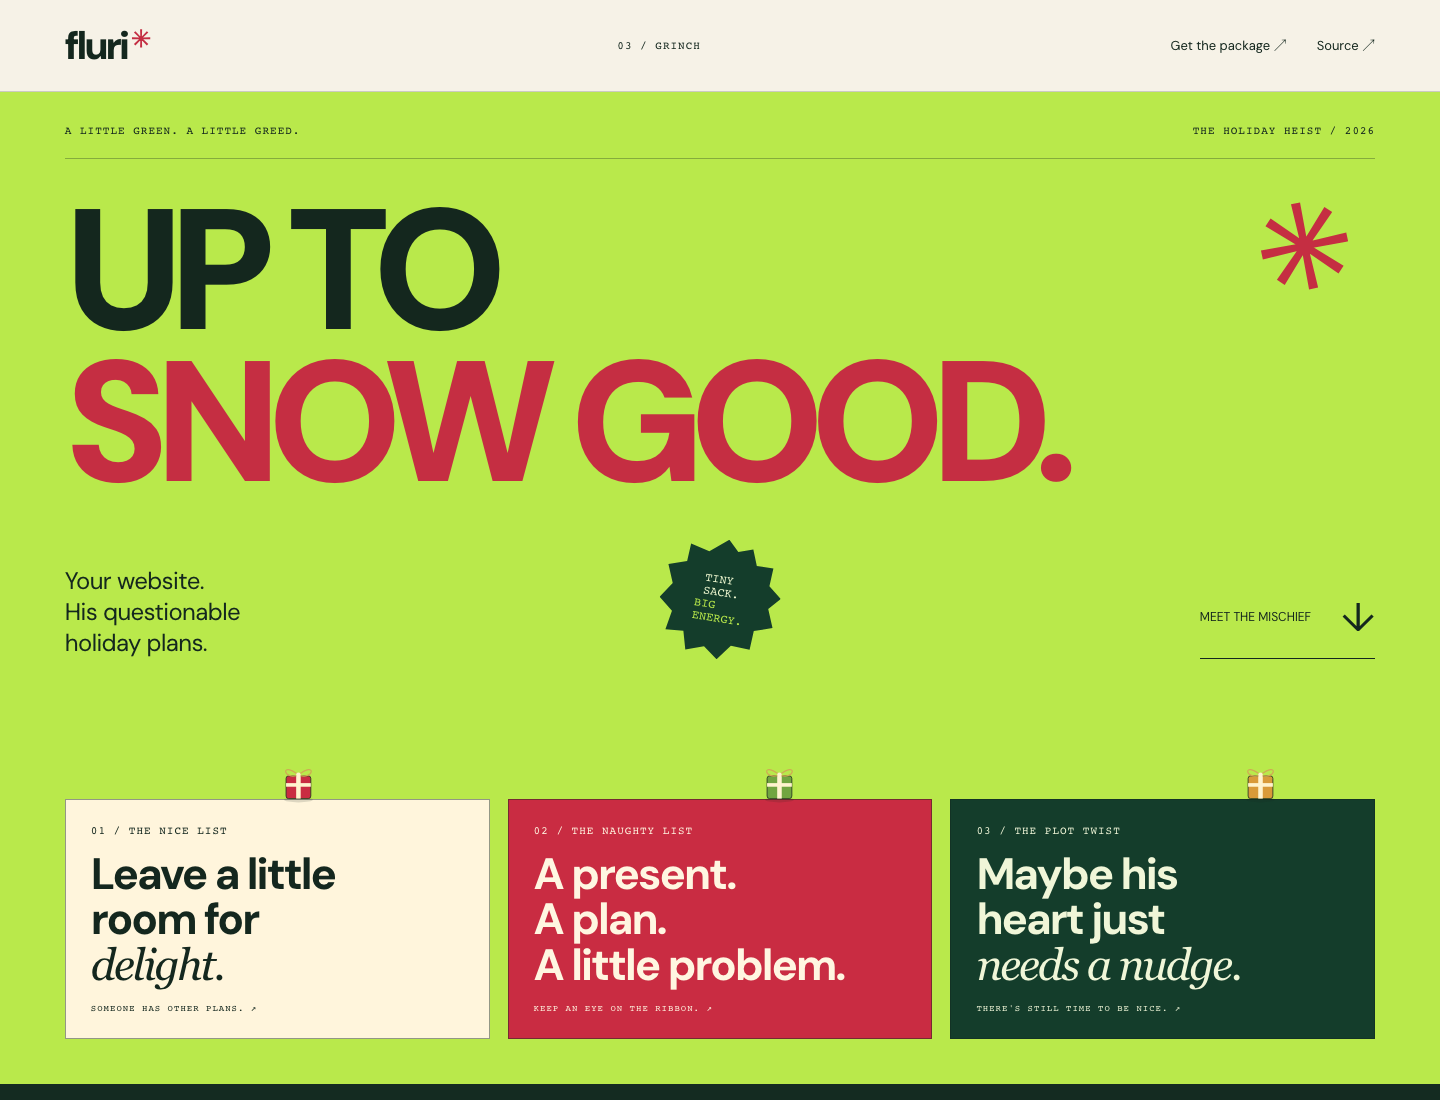
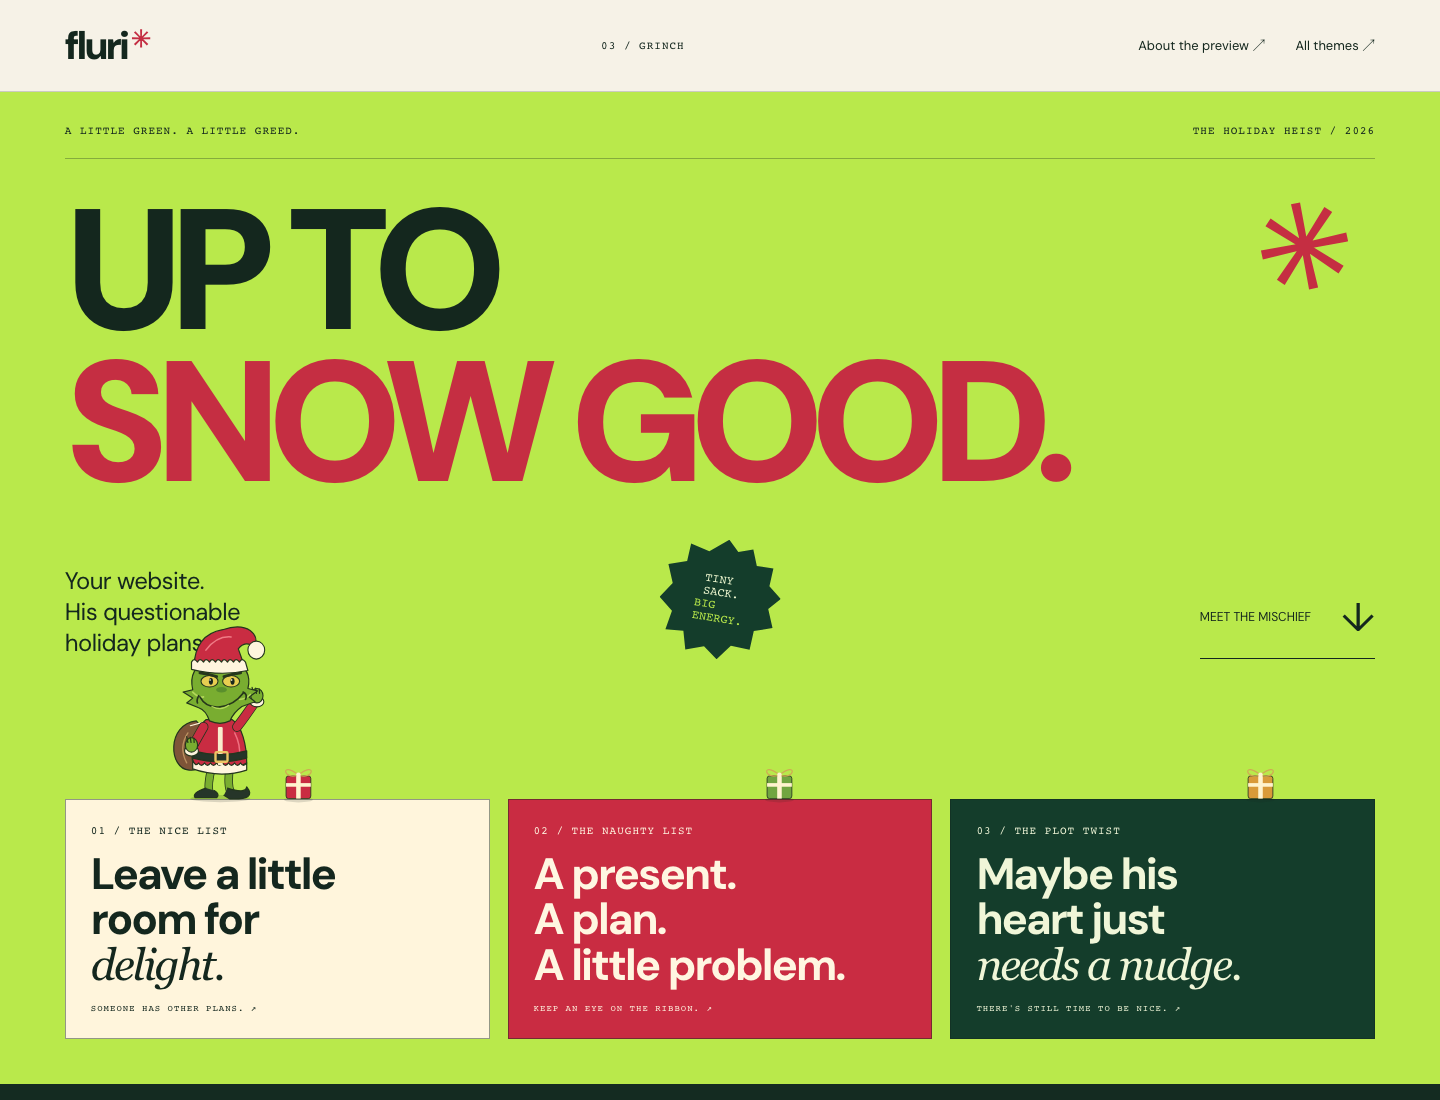
Keep Grinch unreleased and polish the public playground preview

Changed region(s): [[0.125, 0.5564, 0.1875, 0.7418], [0.8125, 0.0309, 0.875, 0.0618], [0.9062, 0.0309, 0.9375, 0.0618]]

diff --git a/demo/index.html b/demo/index.html
@@ -6,7 +6,7 @@
     <title>Grinch by Fluri — A little holiday mischief for your website</title>
     <meta
       name="description"
-      content="A mischievous green holiday visitor for your website. Watch him sneak, climb, steal illustrated presents, hide behind cards, and find a little kindness. Free TypeScript npm package."
+      content="A mischievous green holiday visitor for your website. Watch him sneak, climb, steal illustrated presents, hide behind cards, and find a little kindness. Try the interactive preview from Fluri Themes."
     />
     <meta name="theme-color" content="#b9e94b" />
     <meta name="author" content="František Gejdoš" />
@@ -30,23 +30,30 @@
         "@context": "https://schema.org",
         "@graph": [
           {
-            "@type": "SoftwareSourceCode",
+            "@type": "SoftwareApplication",
             "@id": "https://grinch.fluri.xyz/#software",
             "name": "Grinch by Fluri",
             "description": "An animated holiday character that steals illustrated presents, climbs page surfaces, hides and reacts to visitors.",
             "programmingLanguage": "TypeScript",
-            "codeRepository": "https://github.com/fluritheme/grinch",
-            "downloadUrl": "https://www.npmjs.com/package/@fluritheme/grinch",
             "license": "https://opensource.org/license/mit",
-            "author": { "@id": "https://fluri.xyz/#founder" },
-            "publisher": { "@id": "https://fluri.xyz/#organization" }
+            "author": {
+              "@id": "https://fluri.xyz/#founder"
+            },
+            "publisher": {
+              "@id": "https://fluri.xyz/#organization"
+            },
+            "applicationCategory": "DesignApplication",
+            "operatingSystem": "Web",
+            "url": "https://grinch.fluri.xyz/"
           },
           {
             "@type": "Organization",
             "@id": "https://fluri.xyz/#organization",
             "name": "Fluri Themes",
             "url": "https://fluri.xyz/",
-            "founder": { "@id": "https://fluri.xyz/#founder" }
+            "founder": {
+              "@id": "https://fluri.xyz/#founder"
+            }
           },
           {
             "@type": "Person",
@@ -72,8 +79,7 @@
         >fluri<span>✳</span></a
       ><span class="edition">03 / GRINCH</span>
       <nav aria-label="Main navigation">
-        <a href="#install">Get the package ↗</a
-        ><a href="https://github.com/fluritheme/grinch">Source ↗</a>
+        <a href="#install">About the preview ↗</a><a href="https://fluri.xyz/">All themes ↗</a>
       </nav>
     </header>
     <main>
@@ -184,17 +190,17 @@
       <section class="install" id="install" data-grinch-ui data-grinch-ignore>
         <div>
           <span class="eyebrow">A FEW LINES. A LITTLE TROUBLE.</span>
-          <h2>Invite him in.</h2>
+          <h2>A little preview.</h2>
           <button
             class="command"
             id="copy-install"
             type="button"
-            aria-label="Copy npm installation command"
+            aria-label="Show package preview status"
           >
-            <code>npm i @fluritheme/grinch</code><span aria-hidden="true">⧉</span>
+            <code>Package release coming soon</code><span aria-hidden="true">⧉</span>
           </button>
-          <p>TypeScript · Zero runtime dependencies · MIT · No CSS import</p>
-          <a href="https://github.com/fluritheme/grinch#readme">Read the full guide ↗</a>
+          <p>Sneak · Climb · Steal · Hide · Find a little kindness</p>
+          <a href="#controls">Try every little feature ↗</a>
         </div>
         <div class="code-panel">
           <div class="tabs" role="tablist" aria-label="Framework examples">
@@ -295,7 +301,7 @@ visitor.destroy();</code></pre>
       <nav aria-label="More Fluri themes">
         <a href="https://winter.fluri.xyz/">Winter ↗</a
         ><a href="https://spider.fluri.xyz/">Spider ↗</a
-        ><a href="https://github.com/fluritheme/grinch">GitHub ↗</a>
+        ><a href="https://fluri.xyz/">All themes ↗</a>
       </nav>
     </footer>
     <div id="toast" role="status" hidden></div>

diff --git a/workers/site.ts b/workers/site.ts
@@ -10,7 +10,7 @@ export default {
     headers.set('Permissions-Policy', 'camera=(), microphone=(), geolocation=()');
     headers.set(
       'Content-Security-Policy',
-      "default-src 'self'; script-src 'self' 'sha256-Hkd4HnbWDXsRGFNwBMSgVlLwWSydI05VbilNO/b7akc='; style-src 'self'; img-src 'self' data:; font-src 'self'; connect-src 'self'; object-src 'none'; base-uri 'self'; frame-ancestors 'none'",
+      "default-src 'self'; script-src 'self' 'sha256-BlFVx6V8wY3GnBWvf5+Pmq5XTueyc5VScBN8DAYjP5Q='; style-src 'self'; img-src 'self' data:; font-src 'self'; connect-src 'self'; object-src 'none'; base-uri 'self'; frame-ancestors 'none'",
     );
     return new Response(response.body, {
       status: response.status,

diff --git a/tests/browser.spec.ts b/tests/browser.spec.ts
@@ -92,7 +92,7 @@ test('invalid selectors leave no installed overlay and host clicks work', async 
   await page.locator('#click').click();
   expect(await page.evaluate(() => window.clicks)).toBe(1);
   await page.getByRole('button', { name: 'Pause Grinch', exact: true }).click();
-  expect(await page.evaluate(() => window.grinch.getState().state)).toBe('paused');
+  await expect.poll(() => page.evaluate(() => window.grinch.getState().state)).toBe('paused');
 });
 test('respects reduced motion and contains layout on phones', async ({ page }) => {
   await page.emulateMedia({ reducedMotion: 'reduce' });

diff --git a/demo/style.css b/demo/style.css
@@ -652,11 +652,16 @@ button:disabled {
     font-size: 28px;
   }
   .gift-row {
-    gap: 8px;
+    gap: 10px;
+    grid-template-columns: repeat(2, minmax(0, 1fr));
+  }
+  .gift-card:first-child {
+    grid-column: 1 / -1;
+    height: 210px;
   }
   .gift-card {
     padding: 17px 12px;
-    height: 210px;
+    height: 250px;
   }
   .gift-card h2 {
     font-size: 22px;

diff --git a/demo/main.ts b/demo/main.ts
@@ -150,7 +150,7 @@ async function copy(text: string): Promise<void> {
   }
 }
 get('copy-install').addEventListener('click', () => {
-  void copy('npm i @fluritheme/grinch');
+  toast('The package is coming soon. You can try every feature here today.');
 });
 get('copy-code').addEventListener('click', () => {
   void copy(examples[active]);

diff --git a/README.md b/README.md
@@ -6,14 +6,11 @@
 
 A mischievous holiday visitor who sneaks around your website, steals presents, hides behind cards, and discovers a softer side of Christmas.
 
-[![npm version](https://grinch.fluri.xyz/npm-version.svg)](https://www.npmjs.com/package/@fluritheme/grinch)
-[![npm downloads](https://img.shields.io/npm/dm/@fluritheme/grinch?color=153629&label=downloads)](https://www.npmjs.com/package/@fluritheme/grinch)
-[![Quality](https://github.com/fluritheme/grinch/actions/workflows/ci.yml/badge.svg)](https://github.com/fluritheme/grinch/actions/workflows/ci.yml)
-[![MIT license](https://img.shields.io/badge/license-MIT-c92c42)](./LICENSE)
+**Interactive preview — the npm package is not published yet.**
 
-[Live playground](https://grinch.fluri.xyz/) · [All Fluri themes](https://fluri.xyz/) · [npm](https://www.npmjs.com/package/@fluritheme/grinch) · [JSR](https://jsr.io/@fluritheme/grinch)
+[Live playground](https://grinch.fluri.xyz/) · [All Fluri themes](https://fluri.xyz/)
 
-![Grinch's holiday heist playground](https://raw.githubusercontent.com/fluritheme/grinch/main/assets/readme/playground.png)
+![Grinch's holiday heist playground](https://grinch.fluri.xyz/readme/playground.png)
 
 </div>
 
@@ -27,11 +24,13 @@ A mischievous holiday visitor who sneaks around your website, steals presents, h
 - **Your content stays yours.** Presents are illustrated props. Buttons, images, text and links are never stolen or rearranged.
 - **Small and considerate.** Zero runtime dependencies, no runtime network requests, bounded gift count, one Canvas, reduced-motion support, pause/resume and complete cleanup.
 
-![Stealing a present and discovering kindness](https://raw.githubusercontent.com/fluritheme/grinch/main/assets/readme/routines.png)
+![Stealing a present and discovering kindness](https://grinch.fluri.xyz/readme/routines.png)
 
 These previews come from the running package. The character and presents are original procedural vector artwork, rendered in Canvas.
 
-## Install
+## Install after release
+
+The package is currently private and unpublished. The following examples document the prepared API. Try it now in the [playground](https://grinch.fluri.xyz/).
 
 ```sh
 npm i @fluritheme/grinch
